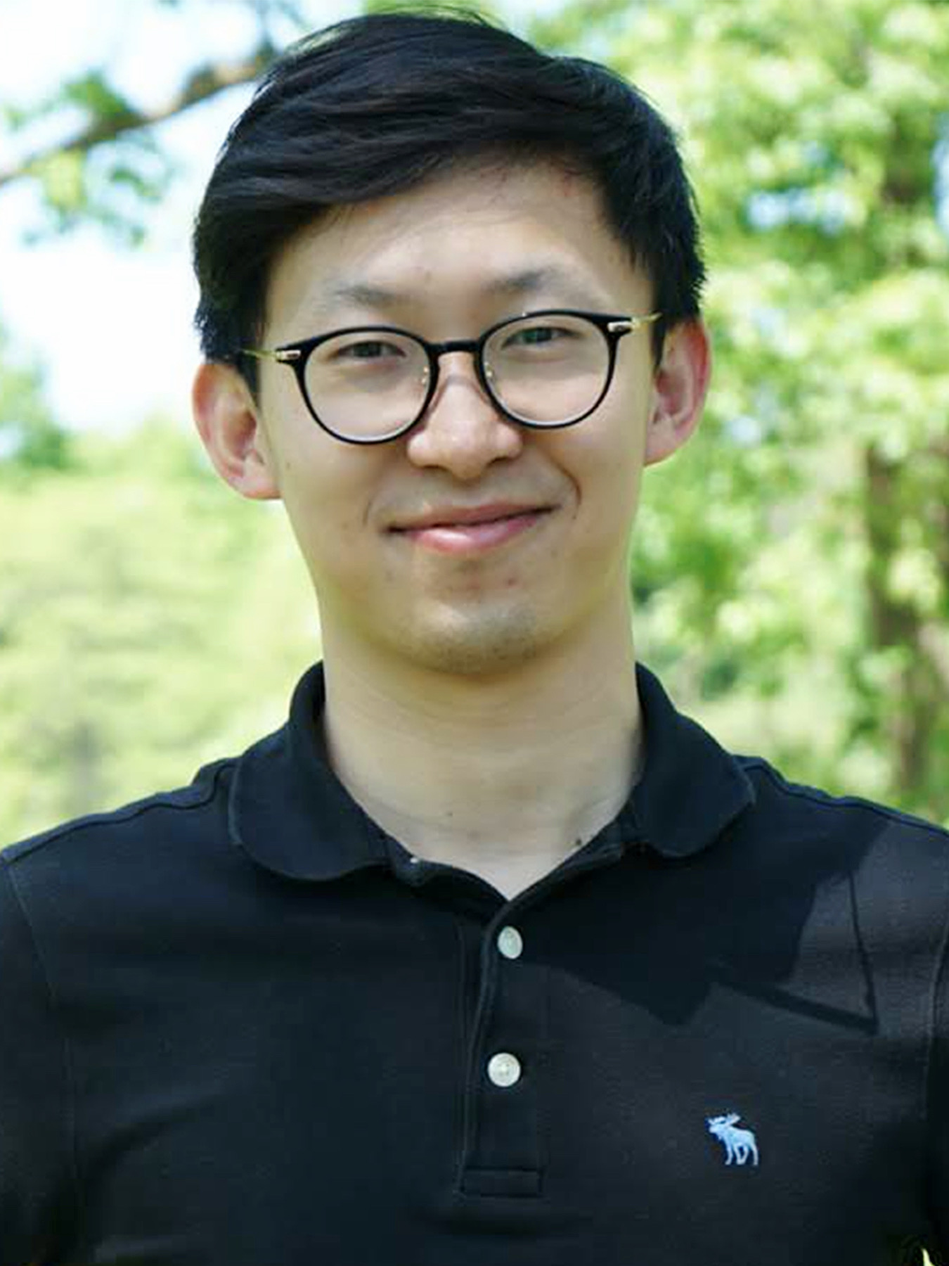
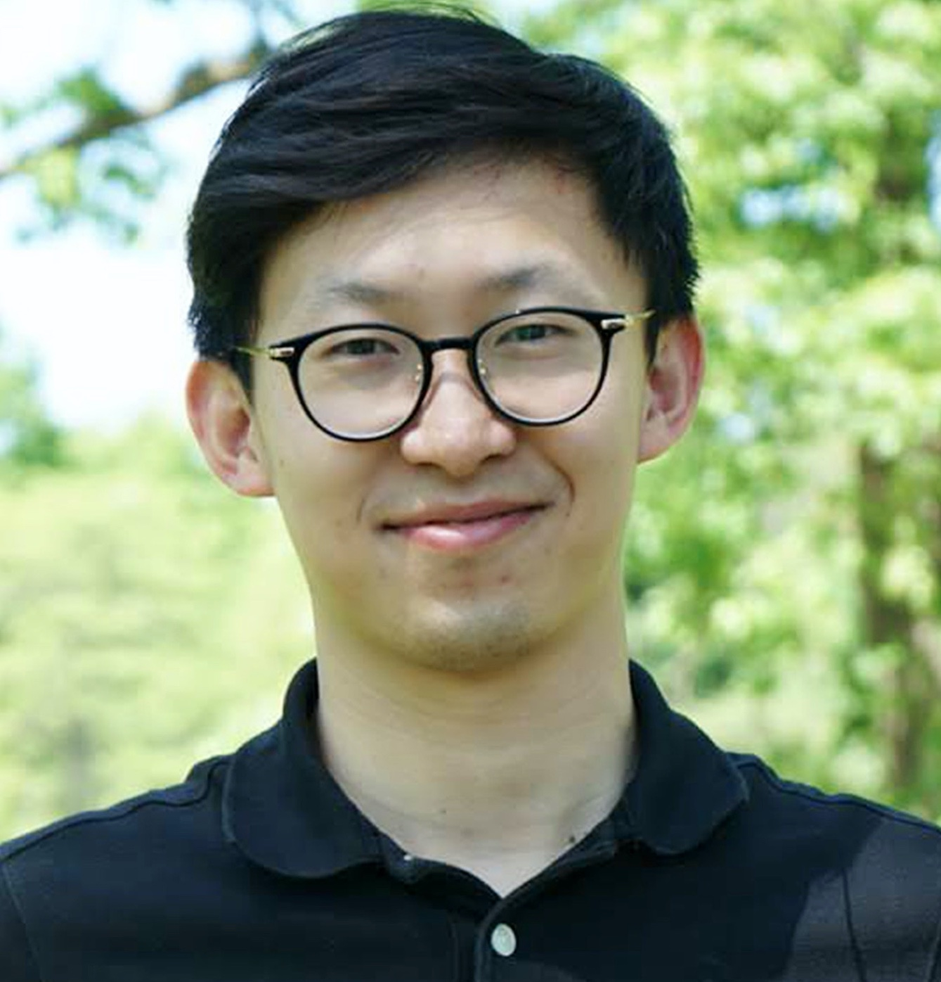
update

diff --git a/css/pixyll.css b/css/pixyll.css
@@ -25,7 +25,7 @@ Built upon BASSCSS (http://jxnblk.github.io/basscss).
 Crafted with <3 by John Otander (@4lpine) - ©2015-2019 John Otander
 MIT License http://opensource.org/licenses/MIT
 
-*/html,body{height:auto;min-height:100%}img{max-width:100%}em img{max-width:100%;margin-left:0}body{box-sizing:border-box;-moz-box-sizing:border-box;-webkit-box-sizing:border-box}a{color:#0076df;text-decoration:none;background-image:linear-gradient(to top, rgba(0,0,0,0) 13%, rgba(0,118,223,0.8) 13%, rgba(0,118,223,0.8) 18%, rgba(0,0,0,0) 17%);text-shadow:white 1px 0px 0px, white -1px 0px 0px}a:hover,a:focus,a:active{border:0;color:#000a13;text-decoration:none;background-image:linear-gradient(to top, rgba(0,0,0,0) 13%, rgba(0,10,19,0.8) 13%, rgba(0,10,19,0.8) 17%, rgba(0,0,0,0) 17%);text-shadow:white 1px 0px 0px, white -1px 0px 0px}button,.button{text-shadow:none;background-image:none}.button:hover,.button:focus,.button:active{color:white;text-shadow:none;background-image:none}.anchorjs-link{text-shadow:none;background-image:none}.anchorjs-link:hover,.anchorjs-link:focus,.anchorjs-link:active{border:0;color:#000a13;text-shadow:none;background-image:none}.left{float:left}.right{float:right}.profile{float:right;height:10rem;margin:0 0 0rem 2rem}.project_block{margin-bottom:20px}.project_profile{float:left;width:40%;margin:0 1rem 0rem 0rem}.project_detail{float:right;width:50%}.research{display:block;margin-left:auto;margin-right:auto;margin-bottom:2rem;width:80%}.project{height:10rem;float:left;margin:0rem 0rem 2rem 0rem}.pub-entry{margin-bottom:20px}.pub-title{font-size:80%;line-height:1.5;margin-bottom:5px;width:100%}.pub-authors{font-size:80%;line-height:1.5;margin-bottom:5px;width:100%}.pub-venue{font-size:80%;line-height:1.5;margin-bottom:5px;width:90%}.pub-description{font-size:80%;margin-bottom:5px}.misc{font-size:80%;margin-bottom:5px}#misc ul,ol,dl{font-size:0.8rem}.clearfix:before,.clearfix:after{content:' ';display:table}.clearfix:after{clear:both}pre,pre code{background-color:transparent;border-radius:0}pre,code{font-family:"Source Code Pro",Consolas,monospace}code{color:#7a7a7a}pre{padding:1.125em;line-height:1.11;overflow-x:scroll;margin-bottom:0.88em;background-color:#fafafa}.highlight .p{font-size:1.125rem;line-height:1}pre{counter-reset:line-numbering;white-space:pre;overflow-x:auto;word-break:inherit;word-wrap:inherit}pre a{background-image:none}pre a::before{content:counter(line-numbering);counter-increment:line-numbering;padding-right:1em;width:25px;text-align:right;opacity:0.7;display:inline-block;color:#ccc;margin-right:16px;font-size:13px;-webkit-touch-callout:none;-webkit-user-select:none;-khtml-user-select:none;-moz-user-select:none;-ms-user-select:none;user-select:none}pre a:first-of-type::before{padding-top:10px}pre a:last-of-type::before{padding-bottom:10px}pre a:only-of-type::before{padding:10px}input,select,textarea,fieldset{font-size:1rem;margin-top:0;margin-bottom:.5rem}input[type=text],input[type=datetime],input[type=datetime-local],input[type=email],input[type=month],input[type=number],input[type=password],input[type=search],input[type=tel],input[type=time],input[type=url],input[type=week]{box-sizing:border-box;height:2.25rem;padding:.5rem .5rem;vertical-align:middle;-webkit-appearance:none}select{box-sizing:border-box;line-height:1.75;padding:.5rem .5rem}select:not([multiple]){height:2.25rem;vertical-align:middle}textarea{box-sizing:border-box;line-height:1.75;padding:.5rem .5rem}.form-stacked input,.form-stacked textarea,.form-stacked select{width:100%}.field-light{background-color:white;transition:box-shadow .2s ease;border-style:solid;border-width:1px;border-color:#ccc;border-radius:3px}.field-light:focus{outline:none;border-color:#0076df;box-shadow:0 0 2px rgba(0,118,223,0.5)}.field-light:disabled{color:#777;background-color:rgba(0,0,0,0.125)}.field-light:read-only:not(select){background-color:rgba(0,0,0,0.125)}.field-light:invalid{border-color:#f95020}.field-light.is-success{border-color:#00cf26}.field-light.is-warning{border-color:#efcc00}.field-light.is-error{border-color:#f95020}.radio-light,.checkbox-light{transition:box-shadow .2s ease}.radio-light{border-radius:50%}.radio-light:focus,.checkbox-light:focus{outline:none;box-shadow:0 0 2px rgba(0,118,223,0.5)}html{font-size:14px}abbr{border-bottom:1px black dotted;cursor:help}p,ul,ol,dl{color:#333;line-height:1.5;font-size:0.9rem;margin-top:0}small,.small{font-size:0.707rem}sup{position:relative;vertical-align:middle;top:-0.9ex}.site-header{padding-top:.5rem;padding-bottom:1rem}.site-header a{color:#333;font-size:1.25rem;font-weight:300;background-image:none}.site-header .site-title{padding-top:1rem;font-size:1.5rem}.site-nav{padding-top:1rem}.site-header nav a{color:#777}.site-header nav a:hover,.site-header nav a:focus,.site-header nav a:active,.site-header nav a.nav-active:hover,.site-header nav a.nav-active:focus,.site-header nav a.nav-active:active{color:#444;opacity:1;border-bottom:2px solid #444}.site-header nav a.nav-active{border-bottom:1px solid #ccc}.site-nav a+a{margin-left:1rem}.site-header a:hover,.posts .post a:hover .post-meta,.posts .post a:hover .post-title,.posts .post a:hover .post-summary{opacity:0.88}.site-header{text-align:center}.site-header .site-nav{text-align:center}table{width:100%;max-width:100%;margin-bottom:1.5rem;font-size:1.125rem;overflow-x:auto;display:block}table>thead>tr>th,table>thead>tr>td,table>tbody>tr>th,table>tbody>tr>td,table>tfoot>tr>th,table>tfoot>tr>td{padding:12px;line-height:1.2;vertical-align:top;border-top:1px solid #333}table>thead>tr>th{vertical-align:bottom;border-bottom:2px solid #333}table>caption+thead>tr:first-child>th,table>caption+thead>tr:first-child>td,table>colgroup+thead>tr:first-child>th,table>colgroup+thead>tr:first-child>td,table>thead:first-child>tr:first-child>th,table>thead:first-child>tr:first-child>td{border-top:0}table>tbody+tbody{border-top:2px solid #333}/*!
+*/html,body{height:auto;min-height:100%}img{max-width:100%}em img{max-width:100%;margin-left:0}body{box-sizing:border-box;-moz-box-sizing:border-box;-webkit-box-sizing:border-box}a{color:#0076df;text-decoration:none;background-image:linear-gradient(to top, rgba(0,0,0,0) 13%, rgba(0,118,223,0.8) 13%, rgba(0,118,223,0.8) 18%, rgba(0,0,0,0) 17%);text-shadow:white 1px 0px 0px, white -1px 0px 0px}a:hover,a:focus,a:active{border:0;color:#000a13;text-decoration:none;background-image:linear-gradient(to top, rgba(0,0,0,0) 13%, rgba(0,10,19,0.8) 13%, rgba(0,10,19,0.8) 17%, rgba(0,0,0,0) 17%);text-shadow:white 1px 0px 0px, white -1px 0px 0px}button,.button{text-shadow:none;background-image:none}.button:hover,.button:focus,.button:active{color:white;text-shadow:none;background-image:none}.anchorjs-link{text-shadow:none;background-image:none}.anchorjs-link:hover,.anchorjs-link:focus,.anchorjs-link:active{border:0;color:#000a13;text-shadow:none;background-image:none}.left{float:left}.right{float:right}.profile{display:inline-block;float:right;height:8rem;margin:0 0 0rem 2rem;border-radius:50%}.project_block{margin-bottom:20px}.project_profile{float:left;width:40%;margin:0 1rem 0rem 0rem}.project_detail{float:right;width:50%}.research{display:block;margin-left:auto;margin-right:auto;margin-bottom:2rem;width:80%}.cloud{display:block;margin-left:auto;margin-right:auto;margin-bottom:2rem;width:50%}.project{height:10rem;float:left;margin:0rem 0rem 2rem 0rem}.pub-entry{margin-bottom:20px}.pub-title{font-size:80%;line-height:1.5;margin-bottom:5px;width:100%}.pub-authors{font-size:80%;line-height:1.5;margin-bottom:5px;width:100%}.pub-venue{font-size:80%;line-height:1.5;margin-bottom:5px;width:90%}.pub-description{font-size:80%;margin-bottom:5px}.misc{font-size:80%;margin-bottom:5px}.clearfix:before,.clearfix:after{content:' ';display:table}.clearfix:after{clear:both}pre,pre code{background-color:transparent;border-radius:0}pre,code{font-family:"Source Code Pro",Consolas,monospace}code{color:#7a7a7a}pre{padding:1.125em;line-height:1.11;overflow-x:scroll;margin-bottom:0.88em;background-color:#fafafa}.highlight .p{font-size:1.125rem;line-height:1}pre{counter-reset:line-numbering;white-space:pre;overflow-x:auto;word-break:inherit;word-wrap:inherit}pre a{background-image:none}pre a::before{content:counter(line-numbering);counter-increment:line-numbering;padding-right:1em;width:25px;text-align:right;opacity:0.7;display:inline-block;color:#ccc;margin-right:16px;font-size:13px;-webkit-touch-callout:none;-webkit-user-select:none;-khtml-user-select:none;-moz-user-select:none;-ms-user-select:none;user-select:none}pre a:first-of-type::before{padding-top:10px}pre a:last-of-type::before{padding-bottom:10px}pre a:only-of-type::before{padding:10px}input,select,textarea,fieldset{font-size:1rem;margin-top:0;margin-bottom:.5rem}input[type=text],input[type=datetime],input[type=datetime-local],input[type=email],input[type=month],input[type=number],input[type=password],input[type=search],input[type=tel],input[type=time],input[type=url],input[type=week]{box-sizing:border-box;height:2.25rem;padding:.5rem .5rem;vertical-align:middle;-webkit-appearance:none}select{box-sizing:border-box;line-height:1.75;padding:.5rem .5rem}select:not([multiple]){height:2.25rem;vertical-align:middle}textarea{box-sizing:border-box;line-height:1.75;padding:.5rem .5rem}.form-stacked input,.form-stacked textarea,.form-stacked select{width:100%}.field-light{background-color:white;transition:box-shadow .2s ease;border-style:solid;border-width:1px;border-color:#ccc;border-radius:3px}.field-light:focus{outline:none;border-color:#0076df;box-shadow:0 0 2px rgba(0,118,223,0.5)}.field-light:disabled{color:#777;background-color:rgba(0,0,0,0.125)}.field-light:read-only:not(select){background-color:rgba(0,0,0,0.125)}.field-light:invalid{border-color:#f95020}.field-light.is-success{border-color:#00cf26}.field-light.is-warning{border-color:#efcc00}.field-light.is-error{border-color:#f95020}.radio-light,.checkbox-light{transition:box-shadow .2s ease}.radio-light{border-radius:50%}.radio-light:focus,.checkbox-light:focus{outline:none;box-shadow:0 0 2px rgba(0,118,223,0.5)}html{font-size:14px}abbr{border-bottom:1px black dotted;cursor:help}p,ul,ol,dl{color:#333;line-height:1.5;font-size:0.9rem;margin-top:0}small,.small{font-size:0.707rem}sup{position:relative;vertical-align:middle;top:-0.9ex}.site-header{padding-top:.5rem;padding-bottom:1rem}.site-header a{color:#333;font-size:1.25rem;font-weight:300;background-image:none}.site-header .site-title{padding-top:1rem;font-size:1.5rem}.site-nav{padding-top:1rem}.site-header nav a{color:#777}.site-header nav a:hover,.site-header nav a:focus,.site-header nav a:active,.site-header nav a.nav-active:hover,.site-header nav a.nav-active:focus,.site-header nav a.nav-active:active{color:#444;opacity:1;border-bottom:2px solid #444}.site-header nav a.nav-active{border-bottom:1px solid #ccc}.site-nav a+a{margin-left:1rem}.site-header a:hover,.posts .post a:hover .post-meta,.posts .post a:hover .post-title,.posts .post a:hover .post-summary{opacity:0.88}.site-header{text-align:center}.site-header .site-nav{text-align:center}table{width:100%;max-width:100%;margin-bottom:1.5rem;font-size:1.125rem;overflow-x:auto;display:block}table>thead>tr>th,table>thead>tr>td,table>tbody>tr>th,table>tbody>tr>td,table>tfoot>tr>th,table>tfoot>tr>td{padding:12px;line-height:1.2;vertical-align:top;border-top:1px solid #333}table>thead>tr>th{vertical-align:bottom;border-bottom:2px solid #333}table>caption+thead>tr:first-child>th,table>caption+thead>tr:first-child>td,table>colgroup+thead>tr:first-child>th,table>colgroup+thead>tr:first-child>td,table>thead:first-child>tr:first-child>th,table>thead:first-child>tr:first-child>td{border-top:0}table>tbody+tbody{border-top:2px solid #333}/*!
 Animate.css - http://daneden.me/animate
 Licensed under the MIT license - http://opensource.org/licenses/MIT
 

diff --git a/publications/index.html b/publications/index.html
@@ -11,7 +11,7 @@
     <link rel="dns-prefetch" href="//cdnjs.cloudflare.com">
 
     <meta name="viewport" content="width=device-width, initial-scale=1">
-    <meta name="description" content="Personal website of Yu Yang">
+    <meta name="description" content="Yu Yang, Rutgers">
     <link rel="manifest" type="application/manifest+json; charset=utf-8" href="/assets/manifest.json" />
     <meta name="robots" content="all">
     <meta name="author" content="Yu Yang">
@@ -21,8 +21,8 @@
     <!-- <link rel="alternate" type="application/rss+xml" title="RSS Feed for Yu Yang" href="/feed.xml" /> -->
 
     <!-- Custom CSS -->
-    <link rel="stylesheet" href="/css/pixyll.css?202101241149" type="text/css">
-    <link rel="stylesheet" href="/css/academicons.min.css?202101241149" type="text/css">
+    <link rel="stylesheet" href="/css/pixyll.css?202101301642" type="text/css">
+    <link rel="stylesheet" href="/css/academicons.min.css?202101301642" type="text/css">
     <!-- <link rel="stylesheet" href="https://cdn.rawgit.com/jpswalsh/academicons/master/css/academicons.min.css"> -->
 
     <!-- Fonts -->
@@ -46,7 +46,7 @@
     <meta property="og:locale" content="en_US">
     <meta property="og:type" content="article">
     <meta property="og:title" content="Publications">
-    <meta property="og:description" content="Personal website of Yu Yang">
+    <meta property="og:description" content="Yu Yang, Rutgers">
     <meta property="og:url" content="http://localhost:4000/publications/">
     <meta property="og:site_name" content="Yu Yang">
     
@@ -55,7 +55,7 @@
     <meta name="twitter:card" content="summary" />
     
     <meta name="twitter:title" content="Publications" />
-    <meta name="twitter:description" content="Personal website of Yu Yang" />
+    <meta name="twitter:description" content="Yu Yang, Rutgers" />
     <meta name="twitter:url" content="/publications/" />
     
 
@@ -295,7 +295,7 @@
 
   
   <div class="pub-entry">
-    <div class="pub-title"><strong style="color:red;">[UbiComp'2020]</strong> <strong>Extending Coverage of Stationary Sensing Systems with Mobile Sensing Systems for Human Mobility Modeling</strong></div>
+    <div class="pub-title"><strong style="color:red;">[IMWUT/UbiComp'2020]</strong> <strong>Extending Coverage of Stationary Sensing Systems with Mobile Sensing Systems for Human Mobility Modeling</strong></div>
     <div class="pub-authors"><strong>Yu Yang</strong>, Zhihan Fang, Xaoyang Xie, Fan Zhang, Yunhuai Liu, Desheng Zhang</div>
     <div class="pub-venue">The 2020 ACM International Joint Conference on Pervasive and Ubiquitous Computing (Acceptance rate: 149/848=17.5%)</div>
 
@@ -325,7 +325,7 @@
 
   
   <div class="pub-entry">
-    <div class="pub-title"><strong style="color:red;">[UbiComp'2020]</strong> <strong>CellPred: A Behavior-aided Scheme for Cellular Data Usage Prediction</strong></div>
+    <div class="pub-title"><strong style="color:red;">[IMWUT/UbiComp'2020]</strong> <strong>CellPred: A Behavior-aided Scheme for Cellular Data Usage Prediction</strong></div>
     <div class="pub-authors">Zhou Qin, Fang Cao, <strong>Yu Yang</strong>, Shuai Wang, Yunhuai Liu, Chang Tan, Desheng Zhang</div>
     <div class="pub-venue">The 2020 ACM International Joint Conference on Pervasive and Ubiquitous Computing (Acceptance rate: 149/848=17.5%)</div>
 
@@ -410,7 +410,7 @@
 
   
   <div class="pub-entry">
-    <div class="pub-title"><strong style="color:red;">[UbiComp'2019]</strong> <strong>MAC: Measuring the Impacts of Anomalies on Travel Time of Multiple Transportation Systems</strong></div>
+    <div class="pub-title"><strong style="color:red;">[IMWUT/UbiComp'2019]</strong> <strong>MAC: Measuring the Impacts of Anomalies on Travel Time of Multiple Transportation Systems</strong></div>
     <div class="pub-authors">Zhihan Fang, <strong>Yu Yang</strong>, Shuai Wang, Boyang Fu, Zixing Song, Fan Zhang, Desheng Zhang</div>
     <div class="pub-venue">The 2019 ACM International Joint Conference on Pervasive and Ubiquitous Computing (Acceptance rate: 176/750=23%)</div>
 
@@ -440,7 +440,7 @@
 
   
   <div class="pub-entry">
-    <div class="pub-title"><strong style="color:red;">[UbiComp'2018]</strong> <strong>coSense: Collaborative Urban-Scale Vehicle Sensing based on Heterogeneous Fleets</strong></div>
+    <div class="pub-title"><strong style="color:red;">[IMWUT/UbiComp'2018]</strong> <strong>coSense: Collaborative Urban-Scale Vehicle Sensing based on Heterogeneous Fleets</strong></div>
     <div class="pub-authors">Xiaoyang Xie, <strong>Yu Yang</strong>, Zhihan Fang, Guang Wang, Fan Zhang, Fan Zhang, Yunhuai Liu, Desheng Zhang</div>
     <div class="pub-venue">The 2018 ACM International Joint Conference on Pervasive and Ubiquitous Computing (Acceptance rate: 140/501=27%)</div>
 
@@ -470,7 +470,7 @@
 
   
   <div class="pub-entry">
-    <div class="pub-title"><strong style="color:red;">[UbiComp'2018]</strong> <strong>SharedEdge: GPS-Free Fine-Grained Travel Time Estimation in State-Level Highway Systems</strong></div>
+    <div class="pub-title"><strong style="color:red;">[IMWUT/UbiComp'2018]</strong> <strong>SharedEdge: GPS-Free Fine-Grained Travel Time Estimation in State-Level Highway Systems</strong></div>
     <div class="pub-authors"><strong>Yu Yang</strong>, Fan Zhang, Desheng Zhang</div>
     <div class="pub-venue">The 2018 ACM International Joint Conference on Pervasive and Ubiquitous Computing (Acceptance rate: 140/501=27%)</div>
 
@@ -500,7 +500,7 @@
 
   
   <div class="pub-entry">
-    <div class="pub-title"><strong style="color:red;">[UbiComp'2017]</strong> <strong>Your Search Path Tells Others Where to Park: Towards Fine-Grained Parking Availability Crowdsourcing Using Parking Decision Models</strong></div>
+    <div class="pub-title"><strong style="color:red;">[IMWUT/UbiComp'2017]</strong> <strong>Your Search Path Tells Others Where to Park: Towards Fine-Grained Parking Availability Crowdsourcing Using Parking Decision Models</strong></div>
     <div class="pub-authors">Ruilin Liu, <strong>Yu Yang</strong>, Daehan Kwak, Desheng Zhang, Liviu Iftode, Badri Nath</div>
     <div class="pub-venue">The 2017 ACM International Joint Conference on Pervasive and Ubiquitous Computing (Acceptance rate: 9/151=6%)</div>
 

diff --git a/index.html b/index.html
@@ -11,7 +11,7 @@
     <link rel="dns-prefetch" href="//cdnjs.cloudflare.com">
 
     <meta name="viewport" content="width=device-width, initial-scale=1">
-    <meta name="description" content="Personal website of Yu Yang">
+    <meta name="description" content="Yu Yang, Rutgers">
     <link rel="manifest" type="application/manifest+json; charset=utf-8" href="/assets/manifest.json" />
     <meta name="robots" content="all">
     <meta name="author" content="Yu Yang">
@@ -21,8 +21,8 @@
     <!-- <link rel="alternate" type="application/rss+xml" title="RSS Feed for Yu Yang" href="/feed.xml" /> -->
 
     <!-- Custom CSS -->
-    <link rel="stylesheet" href="/css/pixyll.css?202101241149" type="text/css">
-    <link rel="stylesheet" href="/css/academicons.min.css?202101241149" type="text/css">
+    <link rel="stylesheet" href="/css/pixyll.css?202101301642" type="text/css">
+    <link rel="stylesheet" href="/css/academicons.min.css?202101301642" type="text/css">
     <!-- <link rel="stylesheet" href="https://cdn.rawgit.com/jpswalsh/academicons/master/css/academicons.min.css"> -->
 
     <!-- Fonts -->
@@ -46,7 +46,7 @@
     <meta property="og:locale" content="en_US">
     <meta property="og:type" content="article">
     <meta property="og:title" content="Home">
-    <meta property="og:description" content="Personal website of Yu Yang">
+    <meta property="og:description" content="Yu Yang, Rutgers">
     <meta property="og:url" content="http://localhost:4000/">
     <meta property="og:site_name" content="Yu Yang">
     
@@ -55,7 +55,7 @@
     <meta name="twitter:card" content="summary" />
     
     <meta name="twitter:title" content="Home" />
-    <meta name="twitter:description" content="Personal website of Yu Yang" />
+    <meta name="twitter:description" content="Yu Yang, Rutgers" />
     <meta name="twitter:url" content="/" />
     
 
@@ -198,18 +198,19 @@
 
 <div class="home">
   <div>
-      <img src="/assets/images/me.JPG" class="profile">
-      <p>I am a PhD candidate in <a href="http://www.cs.rutgers.edu">Department of Computer Science</a> at <a href="https://www.rutgers.edu">Rutgers University</a>. Before coming to Rutgers, I obtained my Bachelor degree from <a href="http://www.neu.edu.cn">Northeastern University</a> in China. I am working with Professor <a href="https://www.cs.rutgers.edu/~dz220/">Desheng Zhang</a>. I am also a visiting student at MIT Media Lab working with Professor <a href="https://www.media.mit.edu/people/sandy/overview/">Alex 'Sandy' Pentland</a>.</p>
+      <p><img src="/assets/images/me.JPG" class="profile">I am a PhD candidate in <a href="http://www.cs.rutgers.edu">Department of Computer Science</a> at <a href="https://www.rutgers.edu">Rutgers University</a>. Before coming to Rutgers, I obtained my Bachelor degree from <a href="http://www.neu.edu.cn">Northeastern University</a> in China. I am working with Professor <a href="https://www.cs.rutgers.edu/~dz220/">Desheng Zhang</a>. I am also a visiting student at MIT Media Lab working with Professor <a href="https://www.media.mit.edu/people/sandy/overview/">Alex 'Sandy' Pentland</a>.</p>
       <p>My research interests are broadly in the areas of Data Science, Cyber-Physical Systems, and Machine Learning. My current work is focused on data-driven urban systems and applications.</p>
+      <!-- <img src="/assets/images/wordcloud.png" class="cloud"> -->
       <p>Email: yuyang94 AT mit.edu OR  yu.yang AT rutgers.edu</p>
       
-      <p><strong style="color:red;">I am now on the job market. Please contact me if you are interested in my work.</strong></p>
+      <p><strong style="color:red;">I am now on the job market. Please contact me if you are interested in my work.</strong><br>
       <a href="./job/" target="_blank">
         [Application Material]
-     </a>
+      </a>
+      </p>
       
+      <img src="/assets/images/wordcloud.png" class="cloud">
   </div>
-  <hr>
 
   <p><strong>Recent News</strong></p>
   <p></p>
@@ -288,6 +289,10 @@
       <li><p><a href="http://ai.stanford.edu/blog/cavin/">New blog post</a> of our work on long-horizon planning for robot manipulation! We also released <a href="">RoboVat</a>, our robot learning framework that unifies simulation and robot control interfaces.</p></li>
     </ul> -->
   <p></p>
+
+  <!-- <div>
+    <img src="/assets/images/wordcloud.png" class="research">
+  </div> -->
 </div>
       </div>
     </div>

diff --git a/job/index.html b/job/index.html
@@ -11,7 +11,7 @@
     <link rel="dns-prefetch" href="//cdnjs.cloudflare.com">
 
     <meta name="viewport" content="width=device-width, initial-scale=1">
-    <meta name="description" content="Personal website of Yu Yang">
+    <meta name="description" content="Yu Yang, Rutgers">
     <link rel="manifest" type="application/manifest+json; charset=utf-8" href="/assets/manifest.json" />
     <meta name="robots" content="all">
     <meta name="author" content="Yu Yang">
@@ -21,8 +21,8 @@
     <!-- <link rel="alternate" type="application/rss+xml" title="RSS Feed for Yu Yang" href="/feed.xml" /> -->
 
     <!-- Custom CSS -->
-    <link rel="stylesheet" href="/css/pixyll.css?202101241149" type="text/css">
-    <link rel="stylesheet" href="/css/academicons.min.css?202101241149" type="text/css">
+    <link rel="stylesheet" href="/css/pixyll.css?202101301642" type="text/css">
+    <link rel="stylesheet" href="/css/academicons.min.css?202101301642" type="text/css">
     <!-- <link rel="stylesheet" href="https://cdn.rawgit.com/jpswalsh/academicons/master/css/academicons.min.css"> -->
 
     <!-- Fonts -->
@@ -46,7 +46,7 @@
     <meta property="og:locale" content="en_US">
     <meta property="og:type" content="article">
     <meta property="og:title" content="Job Application">
-    <meta property="og:description" content="Personal website of Yu Yang">
+    <meta property="og:description" content="Yu Yang, Rutgers">
     <meta property="og:url" content="http://localhost:4000/job/">
     <meta property="og:site_name" content="Yu Yang">
     
@@ -55,7 +55,7 @@
     <meta name="twitter:card" content="summary" />
     
     <meta name="twitter:title" content="Job Application" />
-    <meta name="twitter:description" content="Personal website of Yu Yang" />
+    <meta name="twitter:description" content="Yu Yang, Rutgers" />
     <meta name="twitter:url" content="/job/" />
     
 
@@ -215,9 +215,9 @@
          [Diversity Statement]
       </a><br>
 
-      <a class="btn btn-default btn-xs" href="/assets/pub/References.pdf" target="_blank" role="button">
+      <!-- <a class="btn btn-default btn-xs" href="/assets/pub/References.pdf" target="_blank" role="button">
          [List of References]
-      </a>
+      </a> -->
 </div>
   </article>
 </div>

diff --git a/research/index.html b/research/index.html
@@ -11,7 +11,7 @@
     <link rel="dns-prefetch" href="//cdnjs.cloudflare.com">
 
     <meta name="viewport" content="width=device-width, initial-scale=1">
-    <meta name="description" content="Personal website of Yu Yang">
+    <meta name="description" content="Yu Yang, Rutgers">
     <link rel="manifest" type="application/manifest+json; charset=utf-8" href="/assets/manifest.json" />
     <meta name="robots" content="all">
     <meta name="author" content="Yu Yang">
@@ -21,8 +21,8 @@
     <!-- <link rel="alternate" type="application/rss+xml" title="RSS Feed for Yu Yang" href="/feed.xml" /> -->
 
     <!-- Custom CSS -->
-    <link rel="stylesheet" href="/css/pixyll.css?202101241149" type="text/css">
-    <link rel="stylesheet" href="/css/academicons.min.css?202101241149" type="text/css">
+    <link rel="stylesheet" href="/css/pixyll.css?202101301642" type="text/css">
+    <link rel="stylesheet" href="/css/academicons.min.css?202101301642" type="text/css">
     <!-- <link rel="stylesheet" href="https://cdn.rawgit.com/jpswalsh/academicons/master/css/academicons.min.css"> -->
 
     <!-- Fonts -->
@@ -46,7 +46,7 @@
     <meta property="og:locale" content="en_US">
     <meta property="og:type" content="article">
     <meta property="og:title" content="Research">
-    <meta property="og:description" content="Personal website of Yu Yang">
+    <meta property="og:description" content="Yu Yang, Rutgers">
     <meta property="og:url" content="http://localhost:4000/research/">
     <meta property="og:site_name" content="Yu Yang">
     
@@ -55,7 +55,7 @@
     <meta name="twitter:card" content="summary" />
     
     <meta name="twitter:title" content="Research" />
-    <meta name="twitter:description" content="Personal website of Yu Yang" />
+    <meta name="twitter:description" content="Yu Yang, Rutgers" />
     <meta name="twitter:url" content="/research/" />
     
 
@@ -224,7 +224,7 @@
   <hr>
 
 
-  <div class="container">
+  <div class="container misc">
     <div class="row">
       <div class="col-md-6">
         <img src="/assets/images/scc.png" class="project_profile">

diff --git a/teaching/index.html b/teaching/index.html
@@ -11,7 +11,7 @@
     <link rel="dns-prefetch" href="//cdnjs.cloudflare.com">
 
     <meta name="viewport" content="width=device-width, initial-scale=1">
-    <meta name="description" content="Personal website of Yu Yang">
+    <meta name="description" content="Yu Yang, Rutgers">
     <link rel="manifest" type="application/manifest+json; charset=utf-8" href="/assets/manifest.json" />
     <meta name="robots" content="all">
     <meta name="author" content="Yu Yang">
@@ -21,8 +21,8 @@
     <!-- <link rel="alternate" type="application/rss+xml" title="RSS Feed for Yu Yang" href="/feed.xml" /> -->
 
     <!-- Custom CSS -->
-    <link rel="stylesheet" href="/css/pixyll.css?202101241149" type="text/css">
-    <link rel="stylesheet" href="/css/academicons.min.css?202101241149" type="text/css">
+    <link rel="stylesheet" href="/css/pixyll.css?202101301642" type="text/css">
+    <link rel="stylesheet" href="/css/academicons.min.css?202101301642" type="text/css">
     <!-- <link rel="stylesheet" href="https://cdn.rawgit.com/jpswalsh/academicons/master/css/academicons.min.css"> -->
 
     <!-- Fonts -->
@@ -46,7 +46,7 @@
     <meta property="og:locale" content="en_US">
     <meta property="og:type" content="article">
     <meta property="og:title" content="Teaching">
-    <meta property="og:description" content="Personal website of Yu Yang">
+    <meta property="og:description" content="Yu Yang, Rutgers">
     <meta property="og:url" content="http://localhost:4000/teaching/">
     <meta property="og:site_name" content="Yu Yang">
     
@@ -55,7 +55,7 @@
     <meta name="twitter:card" content="summary" />
     
     <meta name="twitter:title" content="Teaching" />
-    <meta name="twitter:description" content="Personal website of Yu Yang" />
+    <meta name="twitter:description" content="Yu Yang, Rutgers" />
     <meta name="twitter:url" content="/teaching/" />
     
 

diff --git a/misc/index.html b/misc/index.html
@@ -11,7 +11,7 @@
     <link rel="dns-prefetch" href="//cdnjs.cloudflare.com">
 
     <meta name="viewport" content="width=device-width, initial-scale=1">
-    <meta name="description" content="Personal website of Yu Yang">
+    <meta name="description" content="Yu Yang, Rutgers">
     <link rel="manifest" type="application/manifest+json; charset=utf-8" href="/assets/manifest.json" />
     <meta name="robots" content="all">
     <meta name="author" content="Yu Yang">
@@ -21,8 +21,8 @@
     <!-- <link rel="alternate" type="application/rss+xml" title="RSS Feed for Yu Yang" href="/feed.xml" /> -->
 
     <!-- Custom CSS -->
-    <link rel="stylesheet" href="/css/pixyll.css?202101241149" type="text/css">
-    <link rel="stylesheet" href="/css/academicons.min.css?202101241149" type="text/css">
+    <link rel="stylesheet" href="/css/pixyll.css?202101301642" type="text/css">
+    <link rel="stylesheet" href="/css/academicons.min.css?202101301642" type="text/css">
     <!-- <link rel="stylesheet" href="https://cdn.rawgit.com/jpswalsh/academicons/master/css/academicons.min.css"> -->
 
     <!-- Fonts -->
@@ -46,7 +46,7 @@
     <meta property="og:locale" content="en_US">
     <meta property="og:type" content="article">
     <meta property="og:title" content="Misc">
-    <meta property="og:description" content="Personal website of Yu Yang">
+    <meta property="og:description" content="Yu Yang, Rutgers">
     <meta property="og:url" content="http://localhost:4000/misc/">
     <meta property="og:site_name" content="Yu Yang">
     
@@ -55,7 +55,7 @@
     <meta name="twitter:card" content="summary" />
     
     <meta name="twitter:title" content="Misc" />
-    <meta name="twitter:description" content="Personal website of Yu Yang" />
+    <meta name="twitter:description" content="Yu Yang, Rutgers" />
     <meta name="twitter:url" content="/misc/" />
     
 

diff --git a/rw/index.html b/rw/index.html
@@ -11,7 +11,7 @@
     <link rel="dns-prefetch" href="//cdnjs.cloudflare.com">
 
     <meta name="viewport" content="width=device-width, initial-scale=1">
-    <meta name="description" content="Personal website of Yu Yang">
+    <meta name="description" content="Yu Yang, Rutgers">
     <link rel="manifest" type="application/manifest+json; charset=utf-8" href="/assets/manifest.json" />
     <meta name="robots" content="all">
     <meta name="author" content="Yu Yang">
@@ -21,8 +21,8 @@
     <!-- <link rel="alternate" type="application/rss+xml" title="RSS Feed for Yu Yang" href="/feed.xml" /> -->
 
     <!-- Custom CSS -->
-    <link rel="stylesheet" href="/css/pixyll.css?202101241149" type="text/css">
-    <link rel="stylesheet" href="/css/academicons.min.css?202101241149" type="text/css">
+    <link rel="stylesheet" href="/css/pixyll.css?202101301642" type="text/css">
+    <link rel="stylesheet" href="/css/academicons.min.css?202101301642" type="text/css">
     <!-- <link rel="stylesheet" href="https://cdn.rawgit.com/jpswalsh/academicons/master/css/academicons.min.css"> -->
 
     <!-- Fonts -->
@@ -46,7 +46,7 @@
     <meta property="og:locale" content="en_US">
     <meta property="og:type" content="article">
     <meta property="og:title" content="R&amp;W">
-    <meta property="og:description" content="Personal website of Yu Yang">
+    <meta property="og:description" content="Yu Yang, Rutgers">
     <meta property="og:url" content="http://localhost:4000/rw/">
     <meta property="og:site_name" content="Yu Yang">
     
@@ -55,7 +55,7 @@
     <meta name="twitter:card" content="summary" />
     
     <meta name="twitter:title" content="R&W" />
-    <meta name="twitter:description" content="Personal website of Yu Yang" />
+    <meta name="twitter:description" content="Yu Yang, Rutgers" />
     <meta name="twitter:url" content="/rw/" />
     
 

diff --git a/assets/sw.js b/assets/sw.js
@@ -4,7 +4,7 @@ self.addEventListener("install", function(e) {
   e.waitUntil(
     caches.open(CACHE_NAME).then(function(cache) {
       return cache.addAll([
-        "/css/pixyll.css?202101241149",
+        "/css/pixyll.css?202101301642",
         "/"
       ]);
     })
